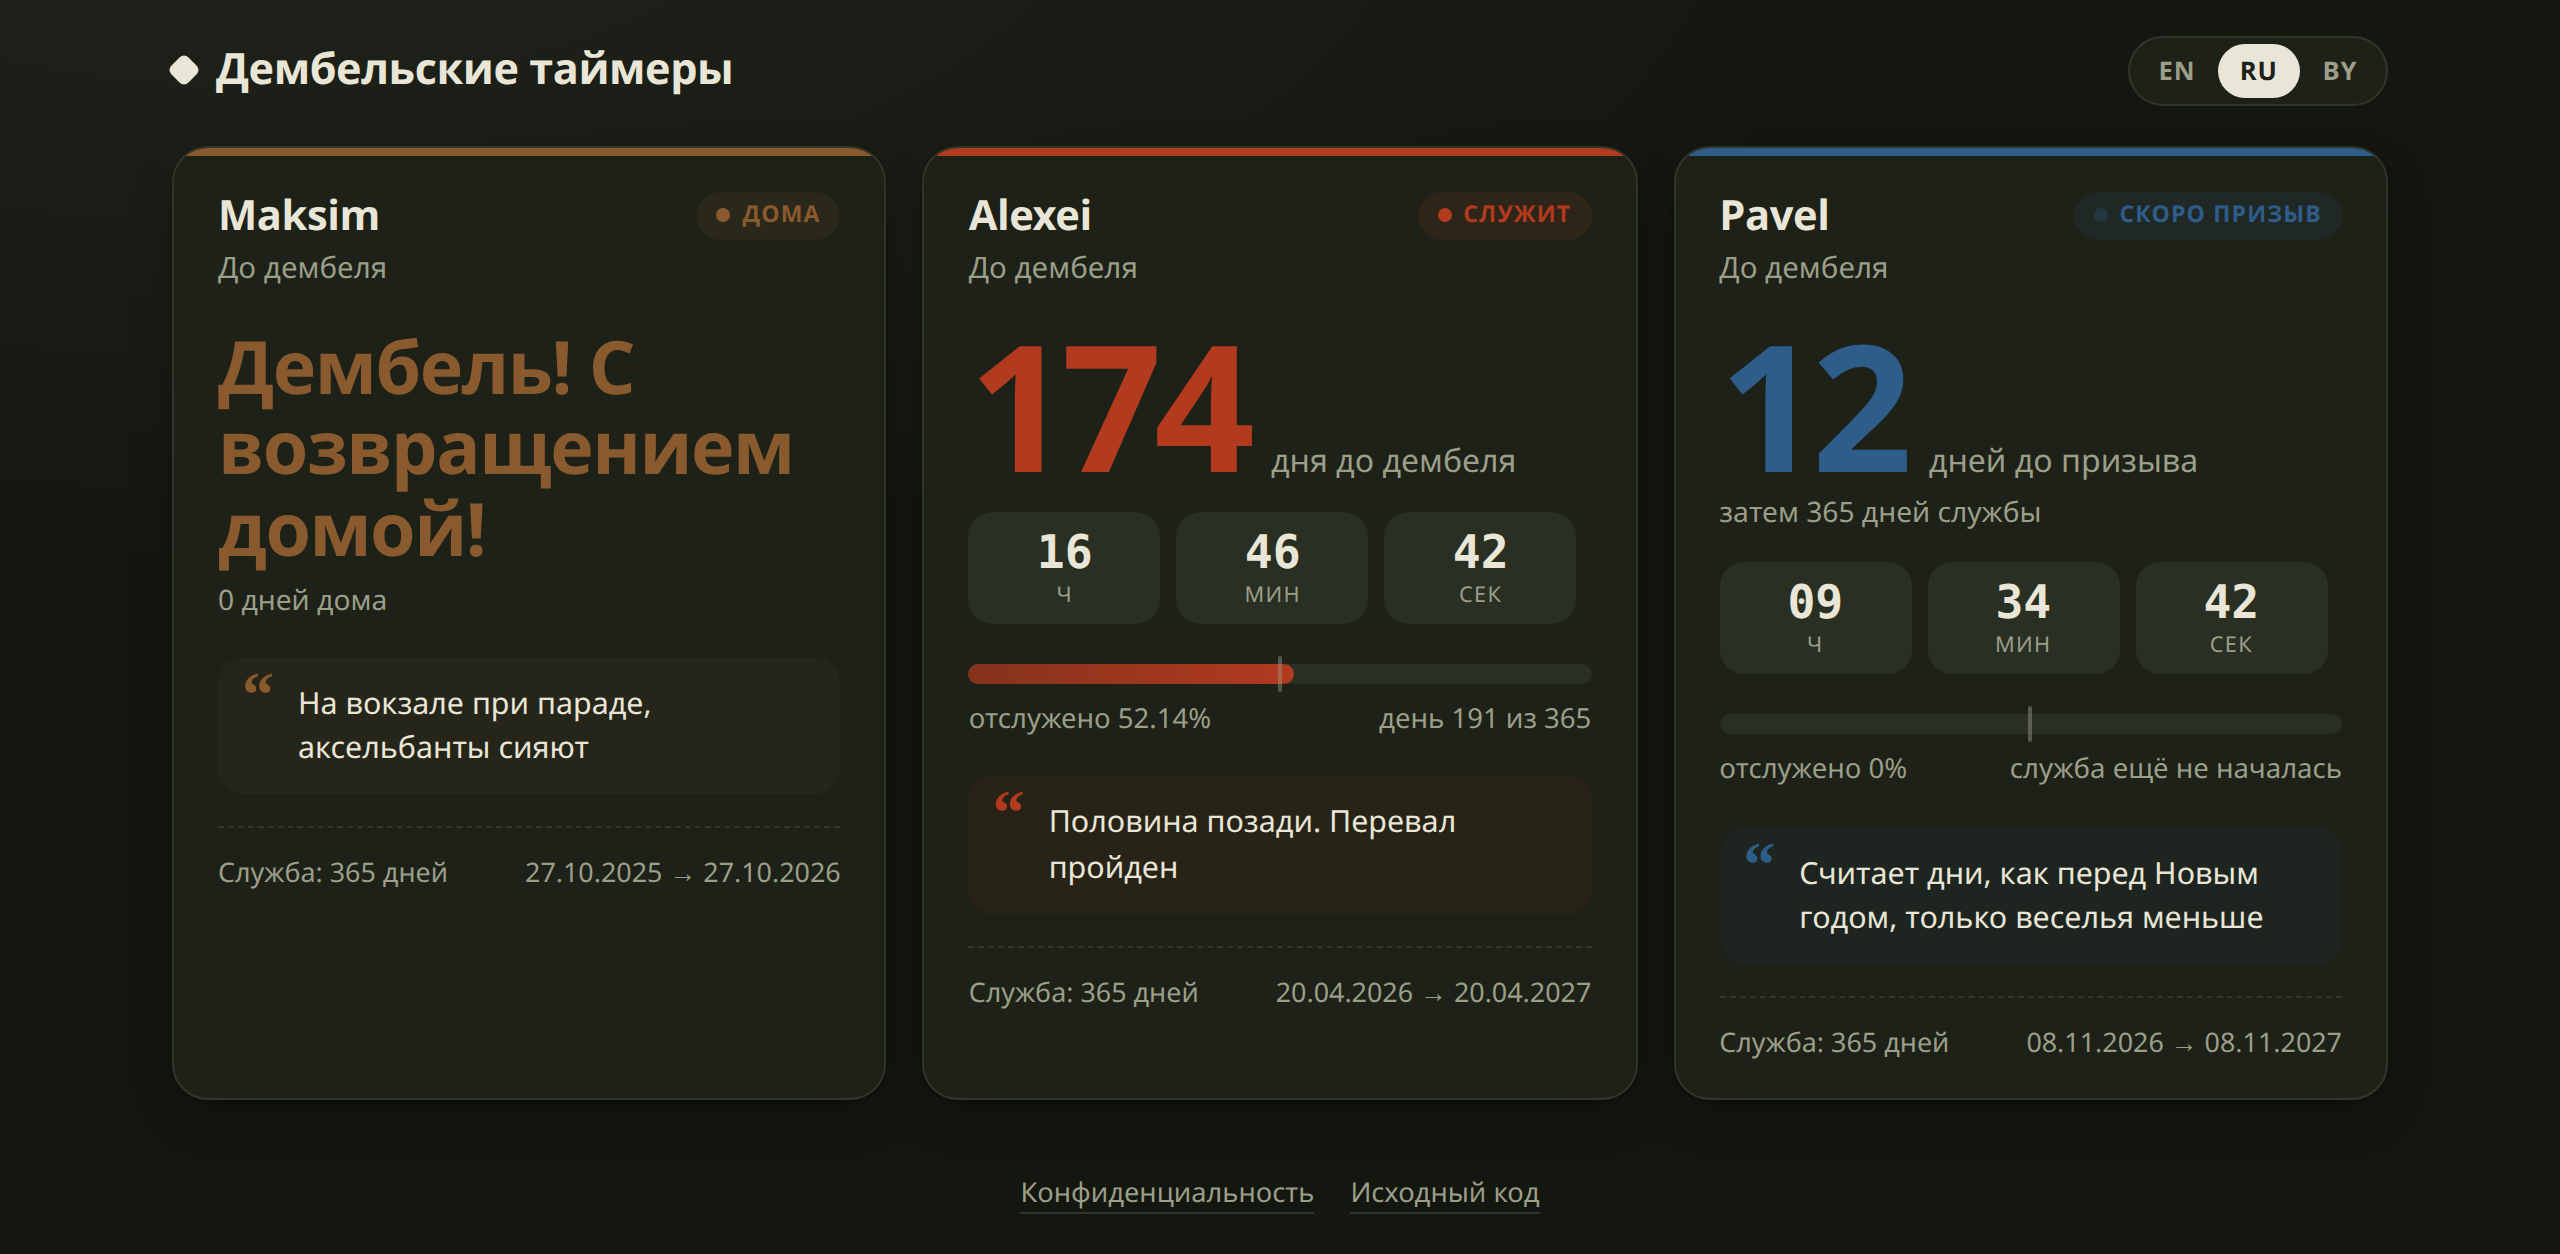
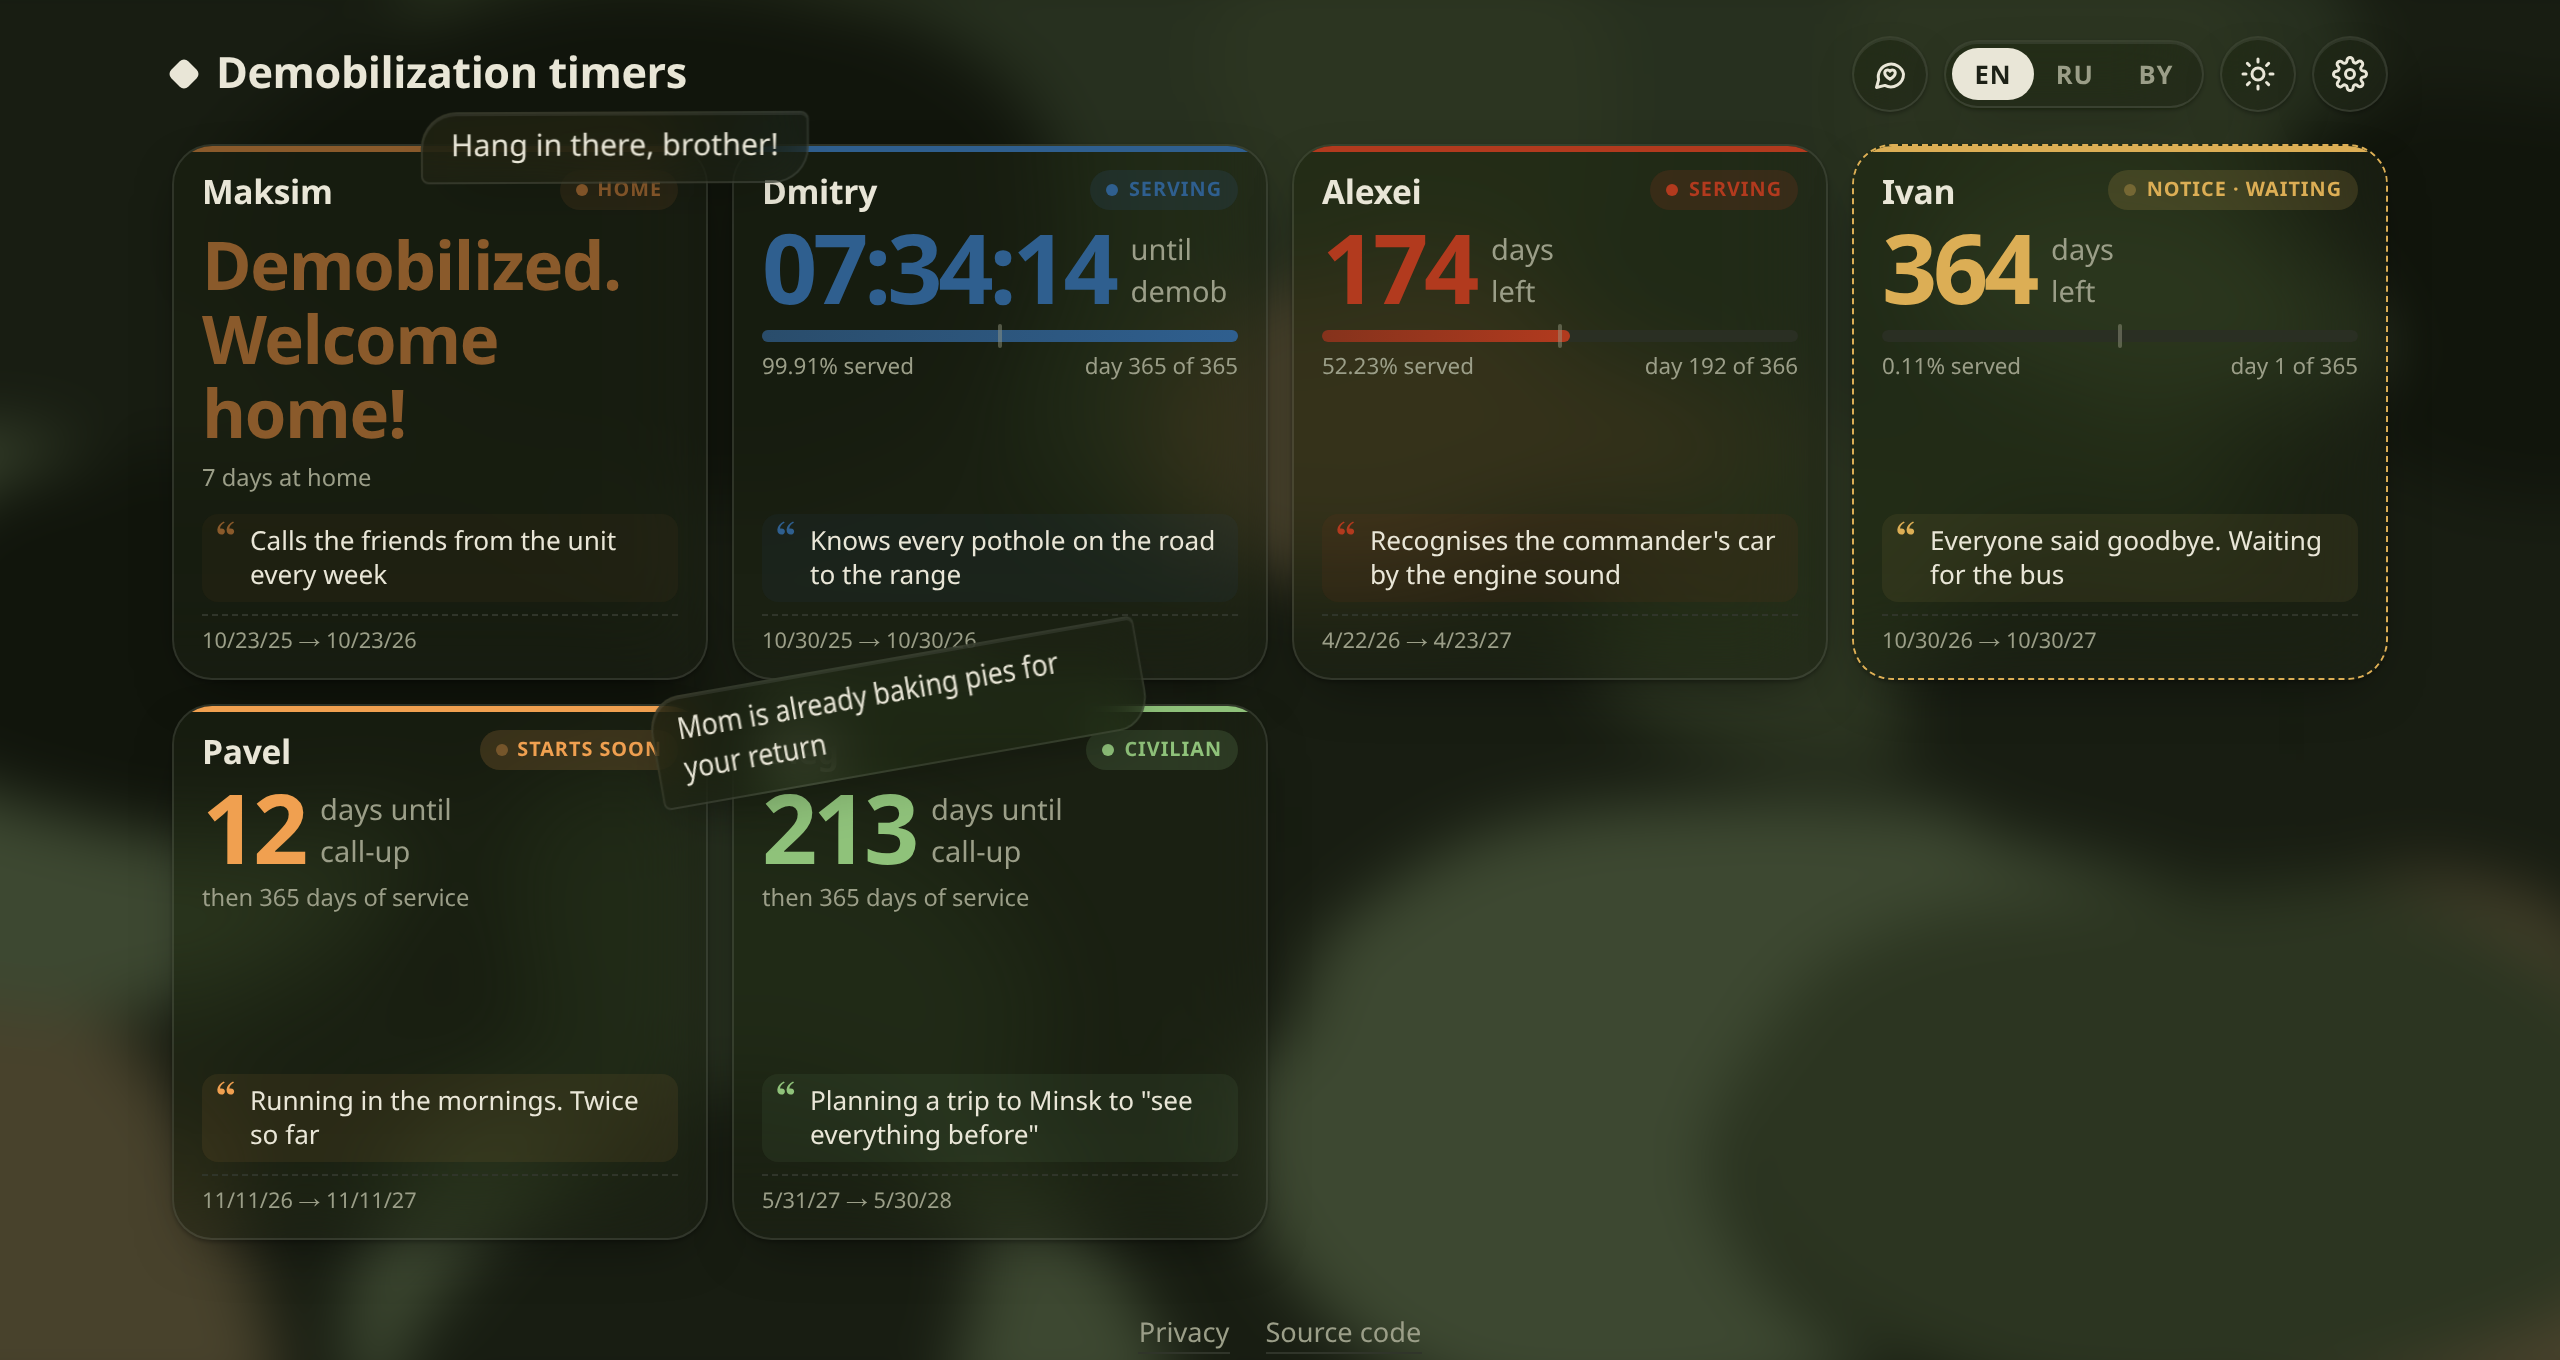
Fresh README screenshots and notes on the new features
Light and dark screenshots show every card state, the call-up notice,
the glass cards and falling words of support. The admin screenshot shows
the new sections. The admin list now says Civilian, like the timers
page, when the call-up is more than 60 days away.

diff --git a/public/admin.html b/public/admin.html
@@ -182,7 +182,7 @@ let toast;
 const say=(m,err)=>{const e=$('msg');e.textContent=m;e.className=m?'show'+(err?' err':''):'';clearTimeout(toast);if(m)toast=setTimeout(()=>e.className='',3000)};
 const esc=s=>String(s).replace(/[&<>"]/g,c=>({'&':'&amp;','<':'&lt;','>':'&gt;','"':'&quot;'}[c]));
 const toLocal=v=>{const d=new Date(v);d.setMinutes(d.getMinutes()-d.getTimezoneOffset());return d.toISOString().slice(0,16)};
-const MONTHS={year:12,half:6}, DAY=864e5;
+const MONTHS={year:12,half:6}, DAY=864e5, SOON_DAYS=60; // same threshold as the timers page
 function addMonths(d,n){const r=new Date(d),day=r.getDate();r.setDate(1);r.setMonth(r.getMonth()+n);
   r.setDate(Math.min(day,new Date(r.getFullYear(),r.getMonth()+1,0).getDate()));return r}
 let S=null;
@@ -196,7 +196,7 @@ async function api(m,u,b){
 function show(on){$('login').hidden=on;$('panel').hidden=!on;$('logout').hidden=!on}
 function summary(tm){ // short state line for the collapsed card
   const now=Date.now(),s=+new Date(tm.start),e=+new Date(tm.end);
-  if(now<s){const d=Math.floor((s-now)/DAY);return `${t('state.soon')} · ${d} ${tp('unit.toStart',d)}`}
+  if(now<s){const d=Math.floor((s-now)/DAY);return `${t(d>SOON_DAYS?'state.wait':'state.soon')} · ${d} ${tp('unit.toStart',d)}`}
   if(now<e){const d=Math.floor((e-now)/DAY);return `${t(tm.pending?'state.summons':'state.serve')} · ${d} ${tp('unit.left',d)}`}
   return t('state.done');
 }

diff --git a/README.md b/README.md
@@ -13,8 +13,11 @@ A small self-hosted website for posting demob (demobilization) timers: countdown
   </tr>
 </table>
 
-- Days, hours, minutes and seconds until the end of service, a progress bar, and the current day of service
-- A "starts soon" countdown before the call-up
+- Days until the end of service, a progress bar, and the current day of service. In the last day the hours, minutes and seconds become the big number; next to the days they are optional
+- Card states in their own colors: civilian (green), starts soon (orange), serving, and home
+- A call-up notice date can be the start of service: from that date the card shows "Notice · waiting" until the admin confirms that the person has left
+- Words of support: visitors send a word or a few sentences, and they drift down over the cards like leaves
+- A moving camouflage background behind translucent glass cards, in light and dark variants
 - Funny statuses that follow the real service timeline: the oath, the halfway point, "100 days to the order", the train home. Each status has its own time window (days served or days left, season, time of day), so nobody is waiting at the train station two days early
 - Interface in English, Russian and Belarusian, with a language switch on every page
 - Square timer cards that fit any screen, two per row on phones
@@ -71,6 +74,7 @@ ADMIN_PASSWORD=change-me DATA_DIR=./data TZ=Europe/Minsk node server.js
 | `SESSION_HOURS` | `12` | How long an admin session lasts |
 | `TZ` | `Europe/Minsk` | Time zone for month arithmetic (start + 6 or 12 months) and for status timing (seasons, wake-up, lights-out) |
 | `PORT` | `3000` | HTTP port inside the container |
+| `TRUST_PROXY` | (off) | Set to `1` behind a reverse proxy, so login and word limits use the visitor's address from `X-Forwarded-For` |
 | `DATA_DIR` | `/data` | Where `config.json` is stored |
 
 Put the site behind a reverse proxy with HTTPS if it is reachable from the internet.
@@ -80,7 +84,9 @@ Put the site behind a reverse proxy with HTTPS if it is reachable from the inter
 - **Add a person**, then open their card to set the service start and the duration: 1 year, half a year, or a custom end date.
 - **Label** and **Message when finished** can be left empty. Each visitor then sees the default text in their own language.
 - **Start from now** restarts the timer from the current moment.
-- **Page settings** turn seconds, progress bars and statuses on or off.
+- **Start is the call-up notice date** marks a start that is not confirmed yet. When the date comes, the person gets a **Confirm departure** button in the list.
+- **Page settings** are grouped into Look, Cards and Words of support, and save as soon as you change them: the background, the clock next to the days, seconds, progress bars, statuses, and whether visitors can send words.
+- **Words of support** are limited to 3 per visitor and 21 for the whole site per hour by default, and kept for 7 days (0 keeps them). Delete one with its × button, or all at once.
 
 ## Localization
 
@@ -90,7 +96,7 @@ To add a language, add a dictionary to `DICT` and an entry to `LANGS`, then add 
 
 ## Statuses
 
-Statuses are in [`public/statuses.js`](public/statuses.js). Each entry has phases, a rule, and the text in each language:
+Statuses are in [`public/statuses.js`](public/statuses.js). Each entry has phases (`soon`, `summons`, `serve`, `done`), a rule, and the text in each language:
 
 ```js
 ['serve', {l: [0, 2], w: 3}, 'Running around with the clearance sheet', 'Бегает с обходным листом', 'Бегае з абходным лістом'],
@@ -114,7 +120,7 @@ Calendar and clock keys use the server time zone:
 
 ## Privacy
 
-The site sets no cookies for visitors and loads nothing from third parties. The full notice is at `/privacy` and is linked from every page. Names and dates entered in the admin panel are public, so get people's consent before you add them.
+The site sets no cookies for visitors and loads nothing from third parties. Words of support are stored without names; the IP address used for their limit stays in memory for an hour. The full notice is at `/privacy` and is linked from every page. Names and dates entered in the admin panel are public, so get people's consent before you add them.
 
 ## License
 
